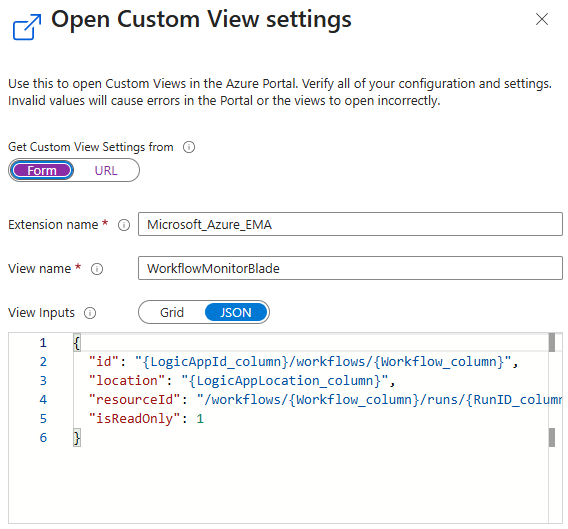
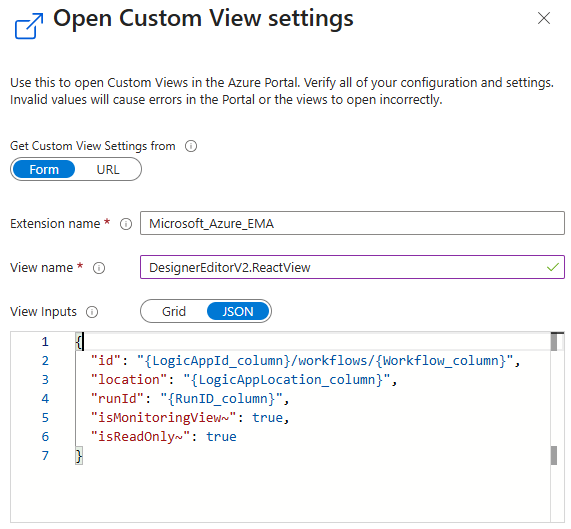
Use new Logic App designer experience when viewing a workflow run

diff --git a/content/blog/monitoring-azure-integration-services/logic-app-workflow-runs-workbook/index.md b/content/blog/monitoring-azure-integration-services/logic-app-workflow-runs-workbook/index.md
@@ -234,14 +234,15 @@ To configure the link:
 1. Select **Link** as the **Column renderer**.
 1. Select **Custom View**.
 1. Click **Configure**.
-1. In the **Custom View settings** screen, enter `Microsoft_Azure_EMA` as the **Extension name** and `WorkflowMonitorBlade` as the **View name**.
+1. In the **Custom View settings** screen, enter `Microsoft_Azure_EMA` as the **Extension name** and `DesignerEditorV2.ReactView` as the **View name**.
 1. Select **JSON** for the **View inputs** and enter the following:  
     ```json
     {
       "id": "{LogicAppId_column}/workflows/{Workflow_column}",
       "location": "{LogicAppLocation_column}",
-      "resourceId": "/workflows/{Workflow_column}/runs/{RunID_column}",
-      "isReadOnly": 1
+      "runId": "{RunID_column}",
+      "isMonitoringView~": true,
+      "isReadOnly~": true
     }
     ```
 
